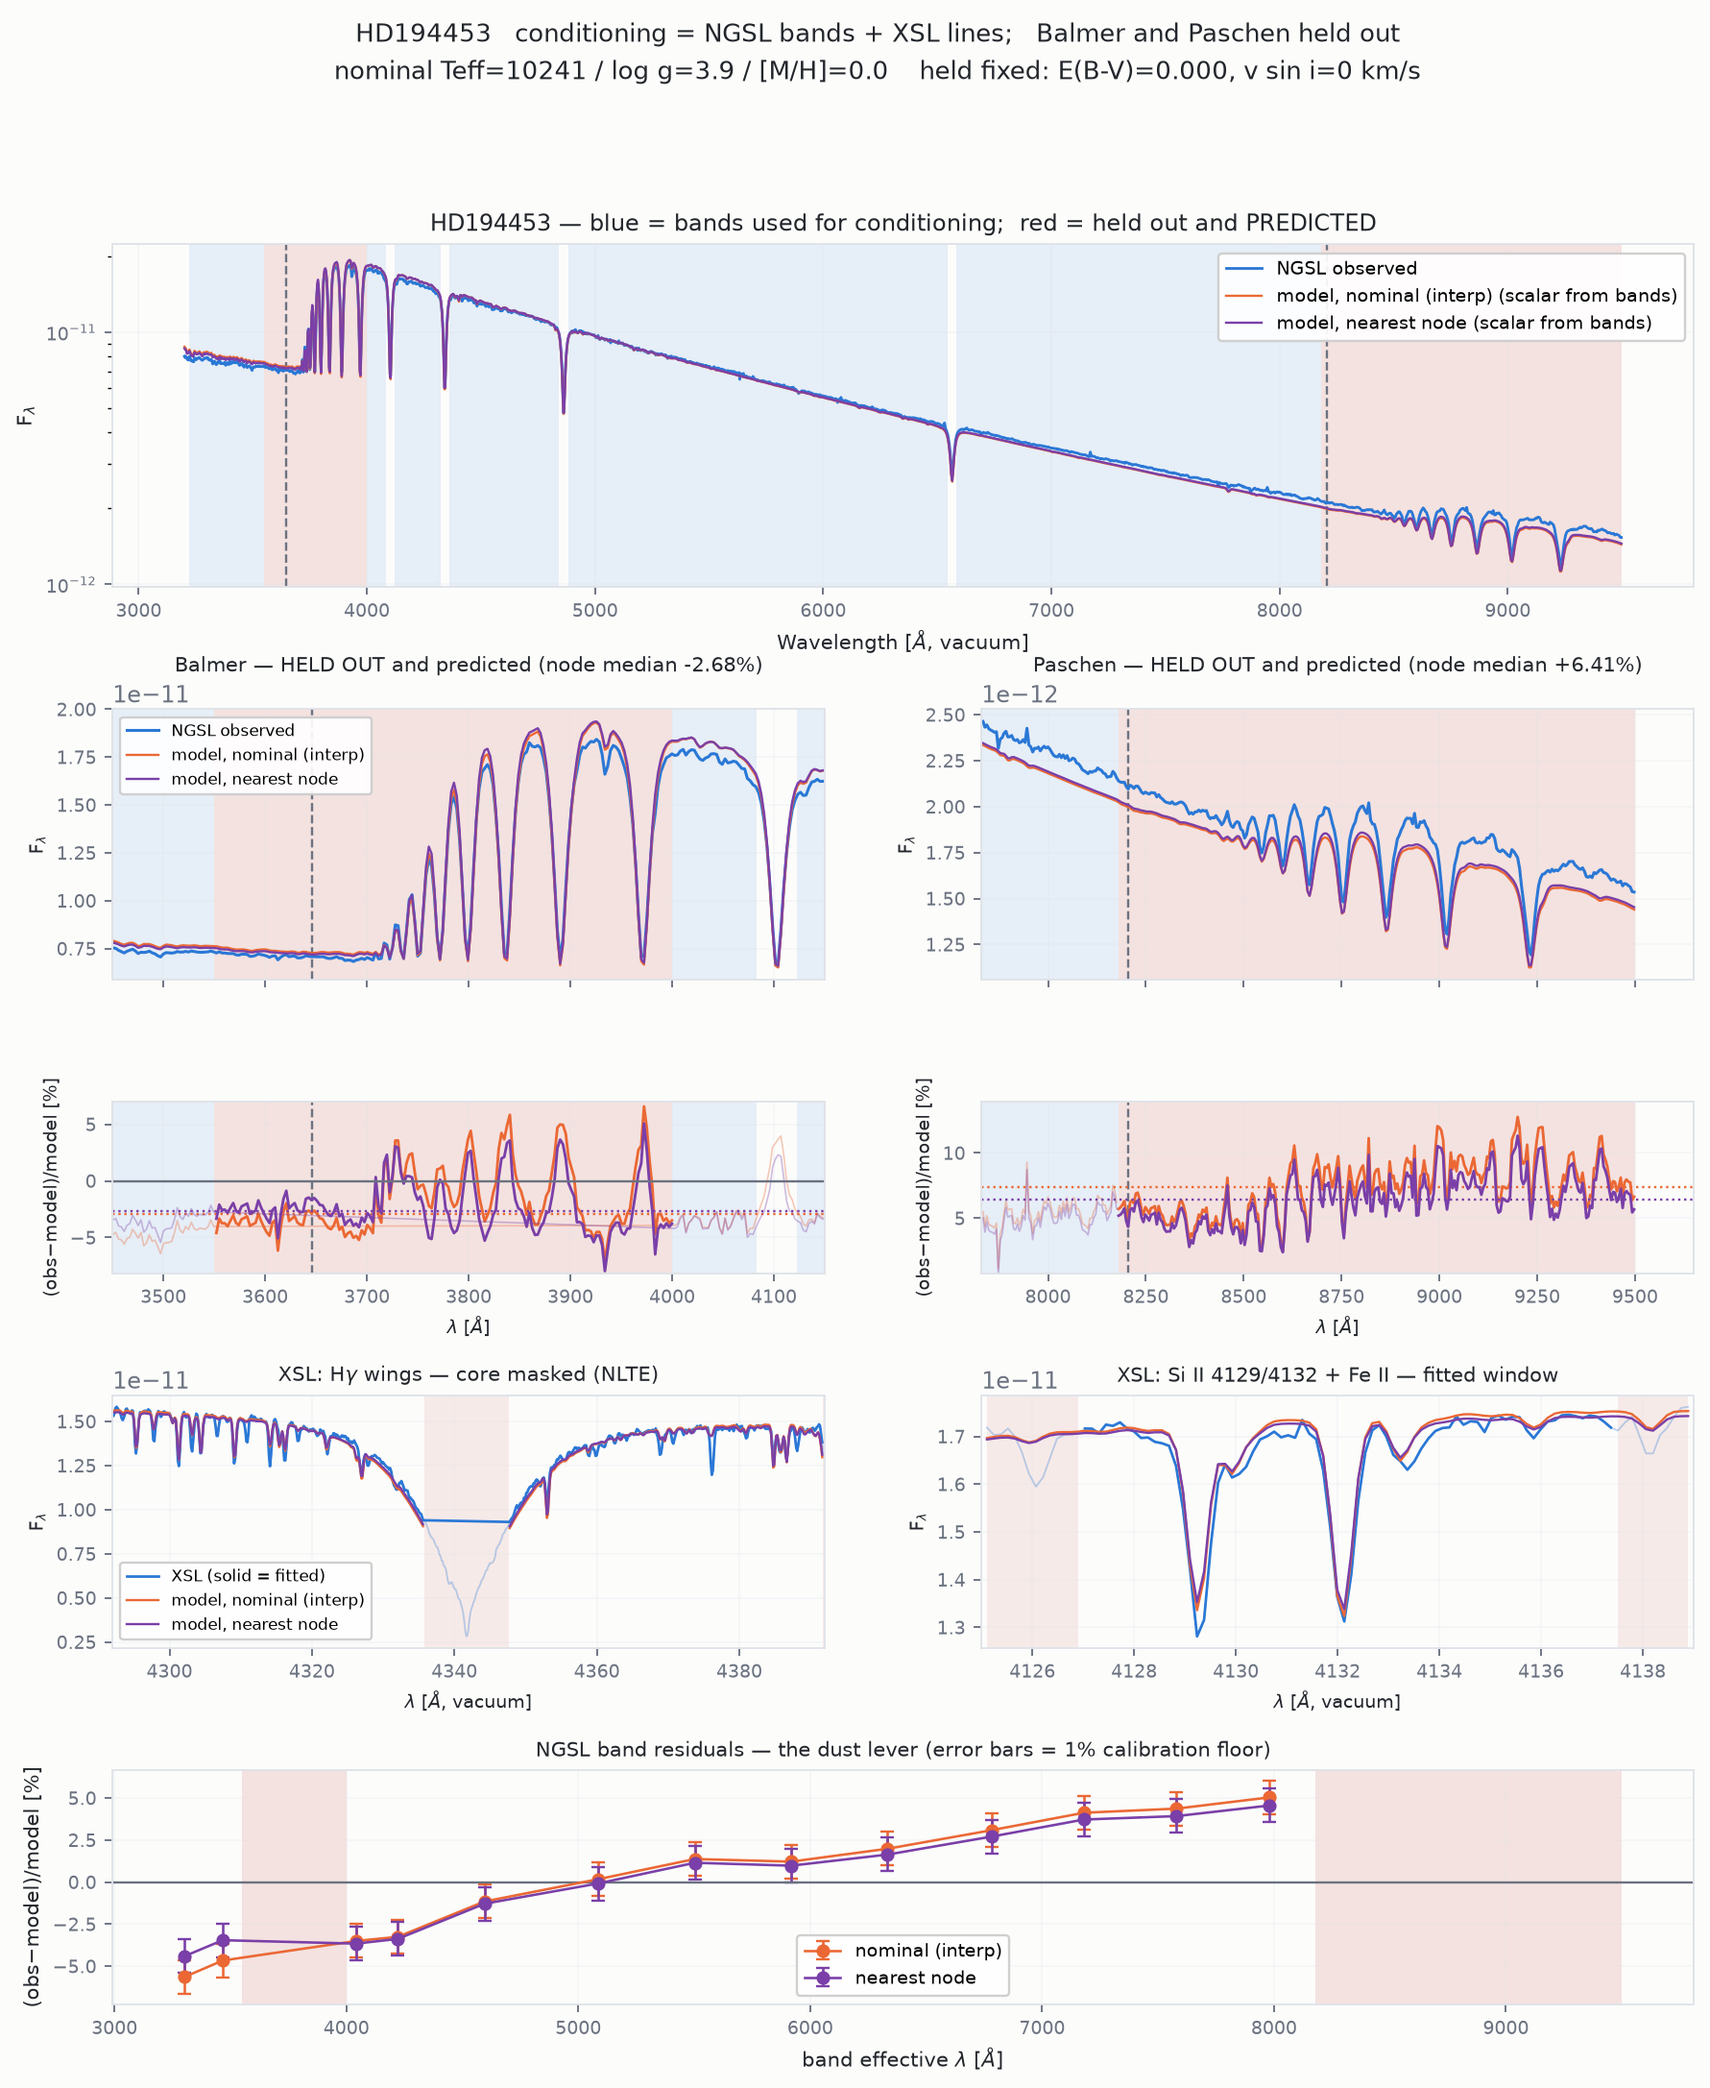
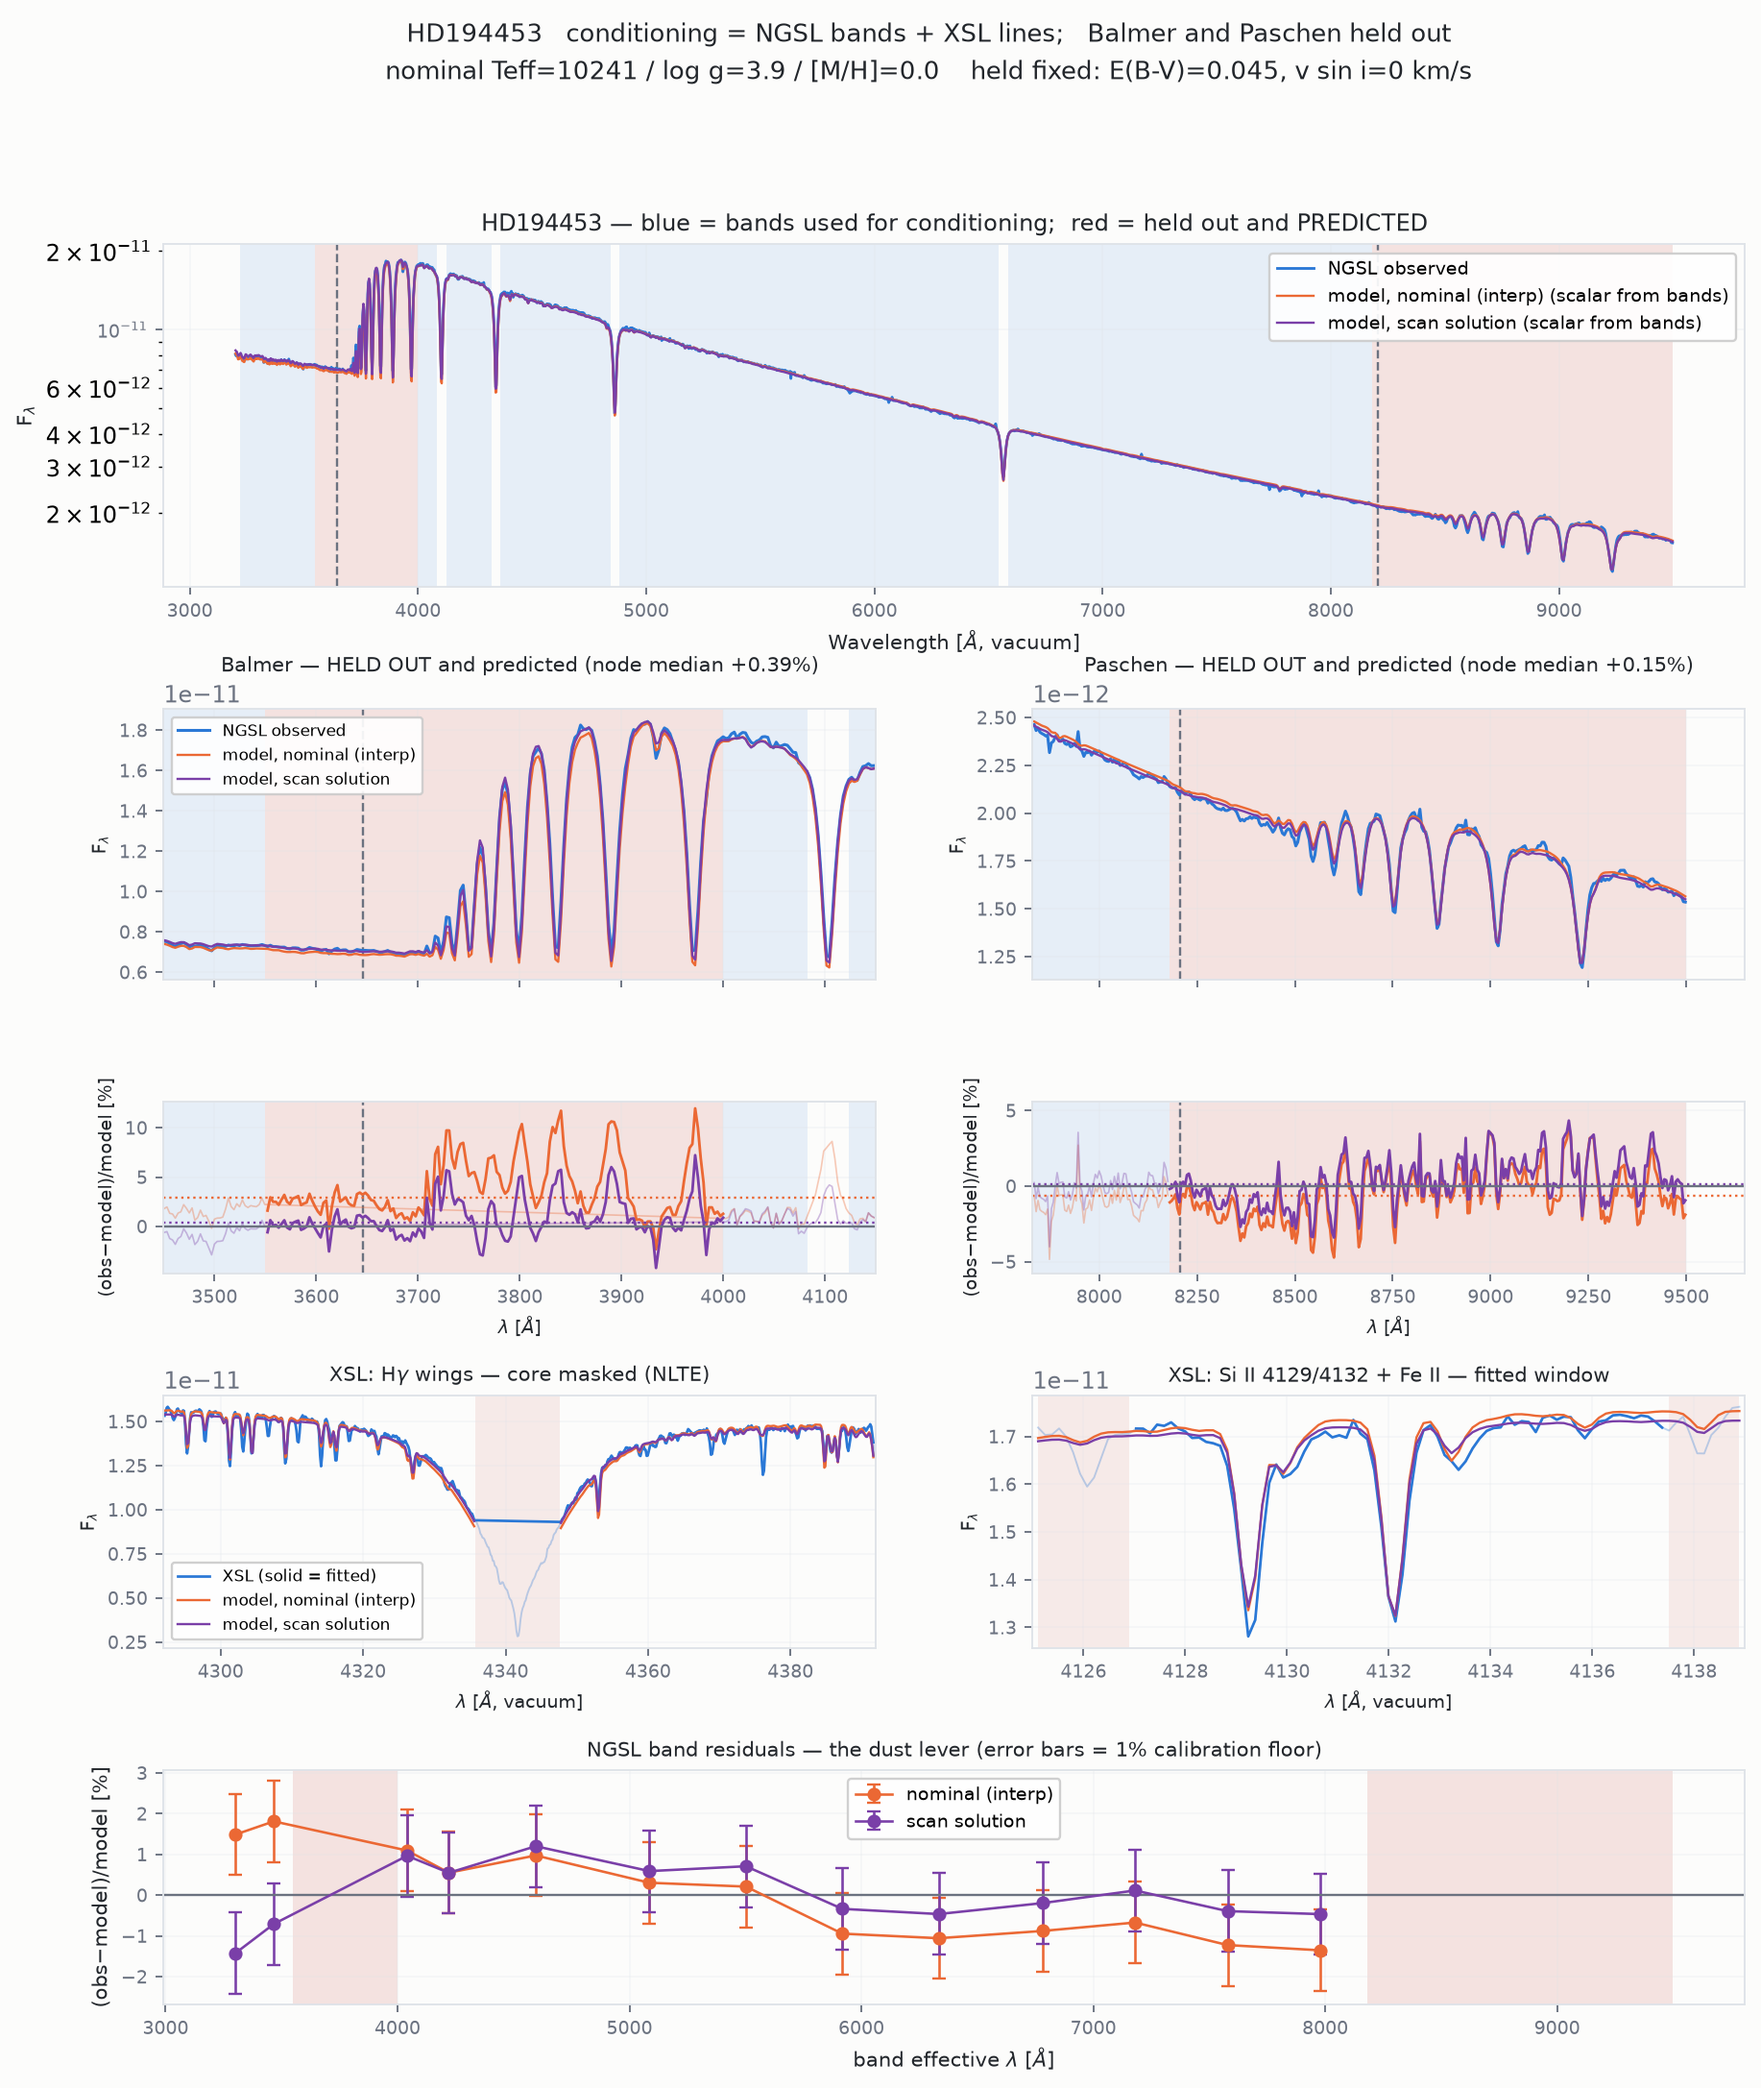
Stop check_predict defaulting to zero dust, and couple Teff to the scan
The committed predict_check figure was made at E(B-V) = 0.0, because --ebv
defaulted to 0.0 and nothing said so loudly. Its 13 conditioning bands ran
-5.6% to +5.0% across the spectrum and the held-out break panels inherited
that tilt, which reads as a broken normalisation rather than as the null dust
hypothesis it was.

It is not a normalisation failure. The giveaway is that the two blue sides
come out with OPPOSITE signs -- -3.68% at Balmer, +5.64% at Paschen. A
mis-solved scalar shifts every panel the same way; only a tilt can do that,
and the tilt is the dust signal the bands exist to measure. The scalar is one
number and cannot absorb a slope, by design.

--ebv and --vsini now default to the sweep's own solution from
data/ebv_teff_scan.csv (--no-scan restores the old behaviour), and the run
prints which source it used.

They also take Teff from the scan with them. The scan fits Teff and E(B-V)
jointly on the +93 K per 0.01 mag degeneracy ridge, so pairing the scan's
E(B-V) with the catalog's Teff double-counts the reddening: it moved
HD194453's predicted Balmer residual from +0.4% to +2.9% for no physical
reason.

At the self-consistent solution (10400 K, E(B-V) = 0.045) both held-out
breaks are now predicted to better than half a percent -- Balmer +0.39%,
Paschen +0.15%, bands rms 0.72% -- from a scalar solved only on bands that
exclude both regions.

diff --git a/explore/check_predict.py b/explore/check_predict.py
@@ -61,12 +61,42 @@ def sample_row(star):
     raise KeyError(star)
 
 
+def scan_row(star):
+    """The star's row from the E(B-V)-Teff sweep, if it has been run."""
+    p = ROOT / 'data' / 'ebv_teff_scan.csv'
+    if not p.exists():
+        return None
+    for r in csv.DictReader(open(p)):
+        if r['star'] == star:
+            return r
+    return None
+
+
 def main():
     ap = argparse.ArgumentParser()
     ap.add_argument('--star', default='HD194453')
-    ap.add_argument('--vsini', type=float, default=0.0)
-    ap.add_argument('--ebv', type=float, default=0.0)
+    # Defaults of None, not 0. E(B-V) = 0 produced a figure whose 13
+    # conditioning bands ran -5.5% to +5.0% across the spectrum -- the
+    # unreddened tilt, which a single scalar cannot absorb and is not meant to
+    # -- and the held-out break panels inherited it, which reads as a broken
+    # normalisation rather than as the null dust hypothesis it is. So the
+    # default is now the sweep's own solution when it exists, and the figure
+    # says which it used.
+    ap.add_argument('--vsini', type=float, default=None)
+    ap.add_argument('--ebv', type=float, default=None)
+    ap.add_argument('--no-scan', action='store_true',
+                    help='ignore data/ebv_teff_scan.csv; E(B-V)=0 unless given')
     a = ap.parse_args()
+
+    sc = None if a.no_scan else scan_row(a.star)
+    src = 'command line'
+    if sc is not None and (a.ebv is None or a.vsini is None):
+        src = f'ebv_teff_scan.csv (fitted at Teff={float(sc["teff"]):.0f} K)'
+        a.ebv = float(sc['ebv']) if a.ebv is None else a.ebv
+        a.vsini = float(sc['vsini']) if a.vsini is None else a.vsini
+    a.ebv = 0.0 if a.ebv is None else a.ebv
+    a.vsini = 0.0 if a.vsini is None else a.vsini
+    print(f'  E(B-V)={a.ebv:.3f}, v sin i={a.vsini:.0f} km/s  <- {src}')
 
     row, grid = sample_row(a.star), Grid()
     bands = ngsl_band_edges()
@@ -86,10 +116,20 @@ def main():
 
     t0 = (float(row['teff_ngsl']), float(row['logg_ngsl']), float(row['mh_ngsl']))
     tn = nearest_node(grid, *t0)
+    # If the dust came from the scan, the Teff must come with it. They sit on
+    # the same degeneracy ridge (+93 K per 0.01 mag), so pairing the scan's
+    # E(B-V) with the catalog's Teff double-counts the reddening -- it moved the
+    # predicted Balmer residual from +1.2% to +2.5% on HD194453 for no physical
+    # reason.
+    if sc is not None and a.ebv == float(sc['ebv']):
+        tn = (float(sc['teff']), float(sc['logg_node']), float(sc['mh_node']))
+        node_label = 'scan solution'
+    else:
+        node_label = 'nearest node'
     thetas = [('nominal (interp)', dict(teff=t0[0], logg=t0[1], mh=t0[2],
                                         ebv=a.ebv, vsini=a.vsini)),
-              ('nearest node', dict(teff=tn[0], logg=tn[1], mh=tn[2],
-                                    ebv=a.ebv, vsini=a.vsini))]
+              (node_label, dict(teff=tn[0], logg=tn[1], mh=tn[2],
+                                ebv=a.ebv, vsini=a.vsini))]
     print(f'\n  nominal Teff={t0[0]:.0f} logg={t0[1]:.2f} [M/H]={t0[2]:+.2f}  '
           f'-> node Teff={tn[0]:.0f} logg={tn[1]:.2f} [M/H]={tn[2]:+.2f}')
 
